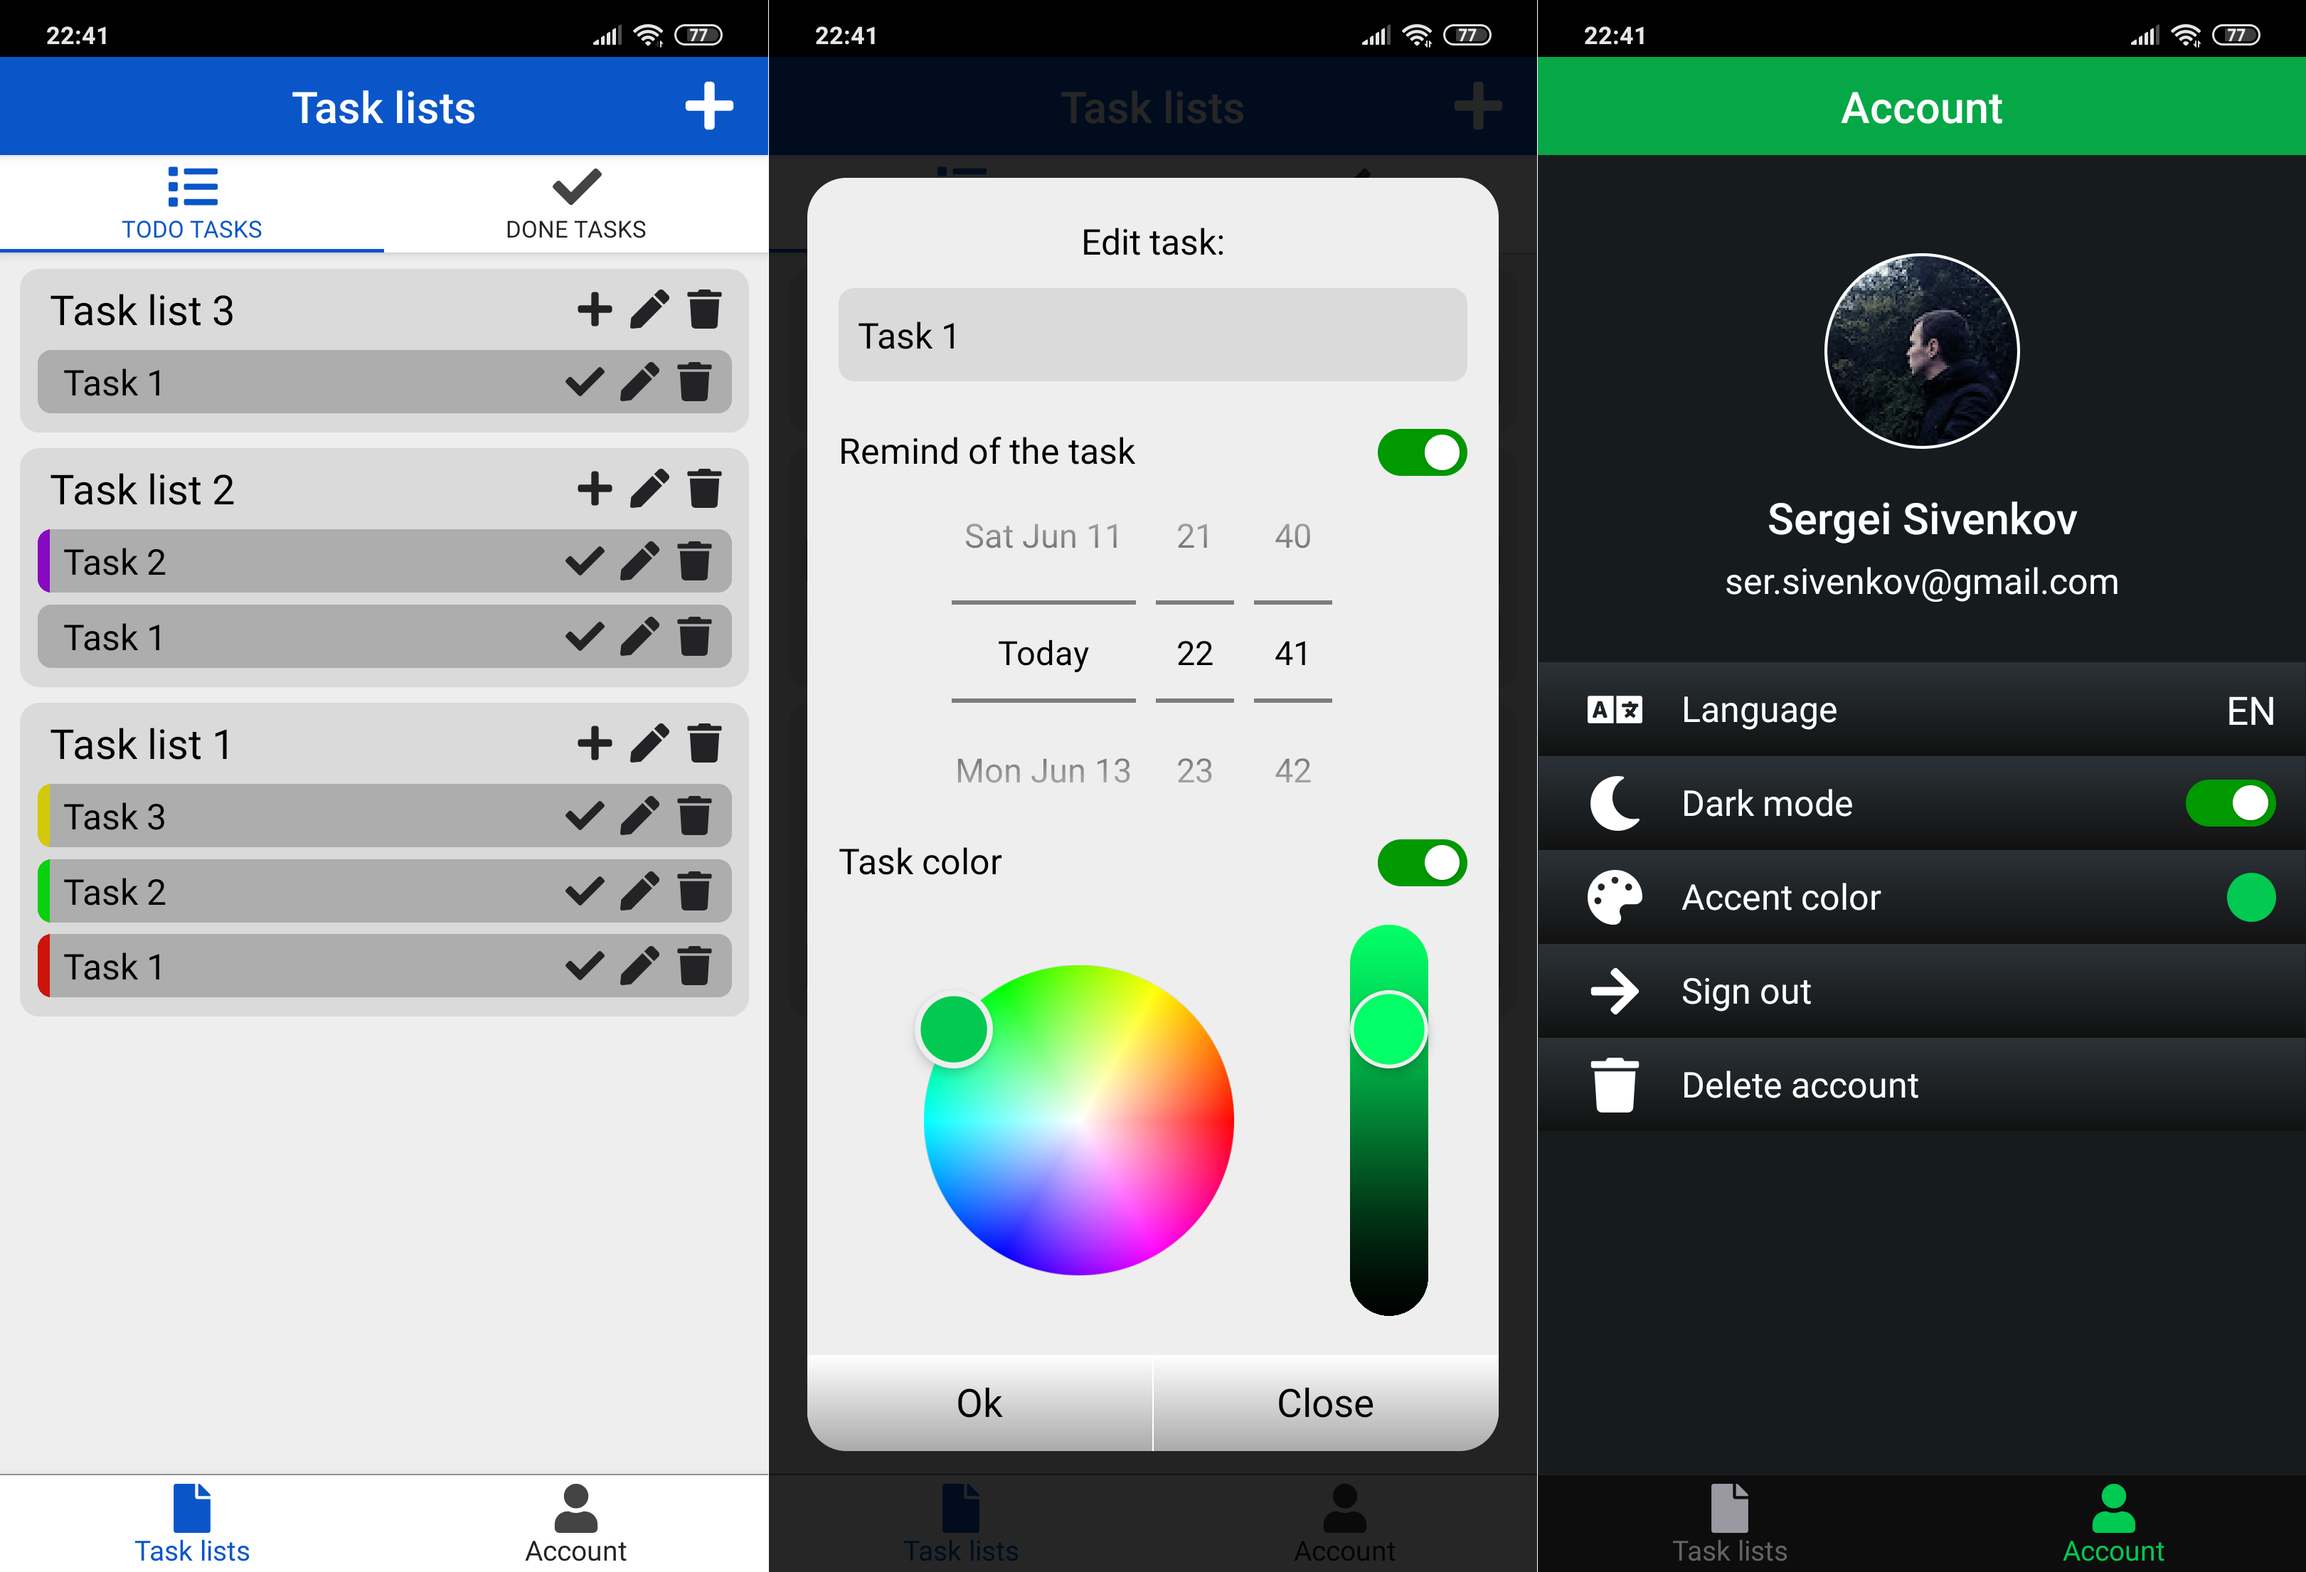
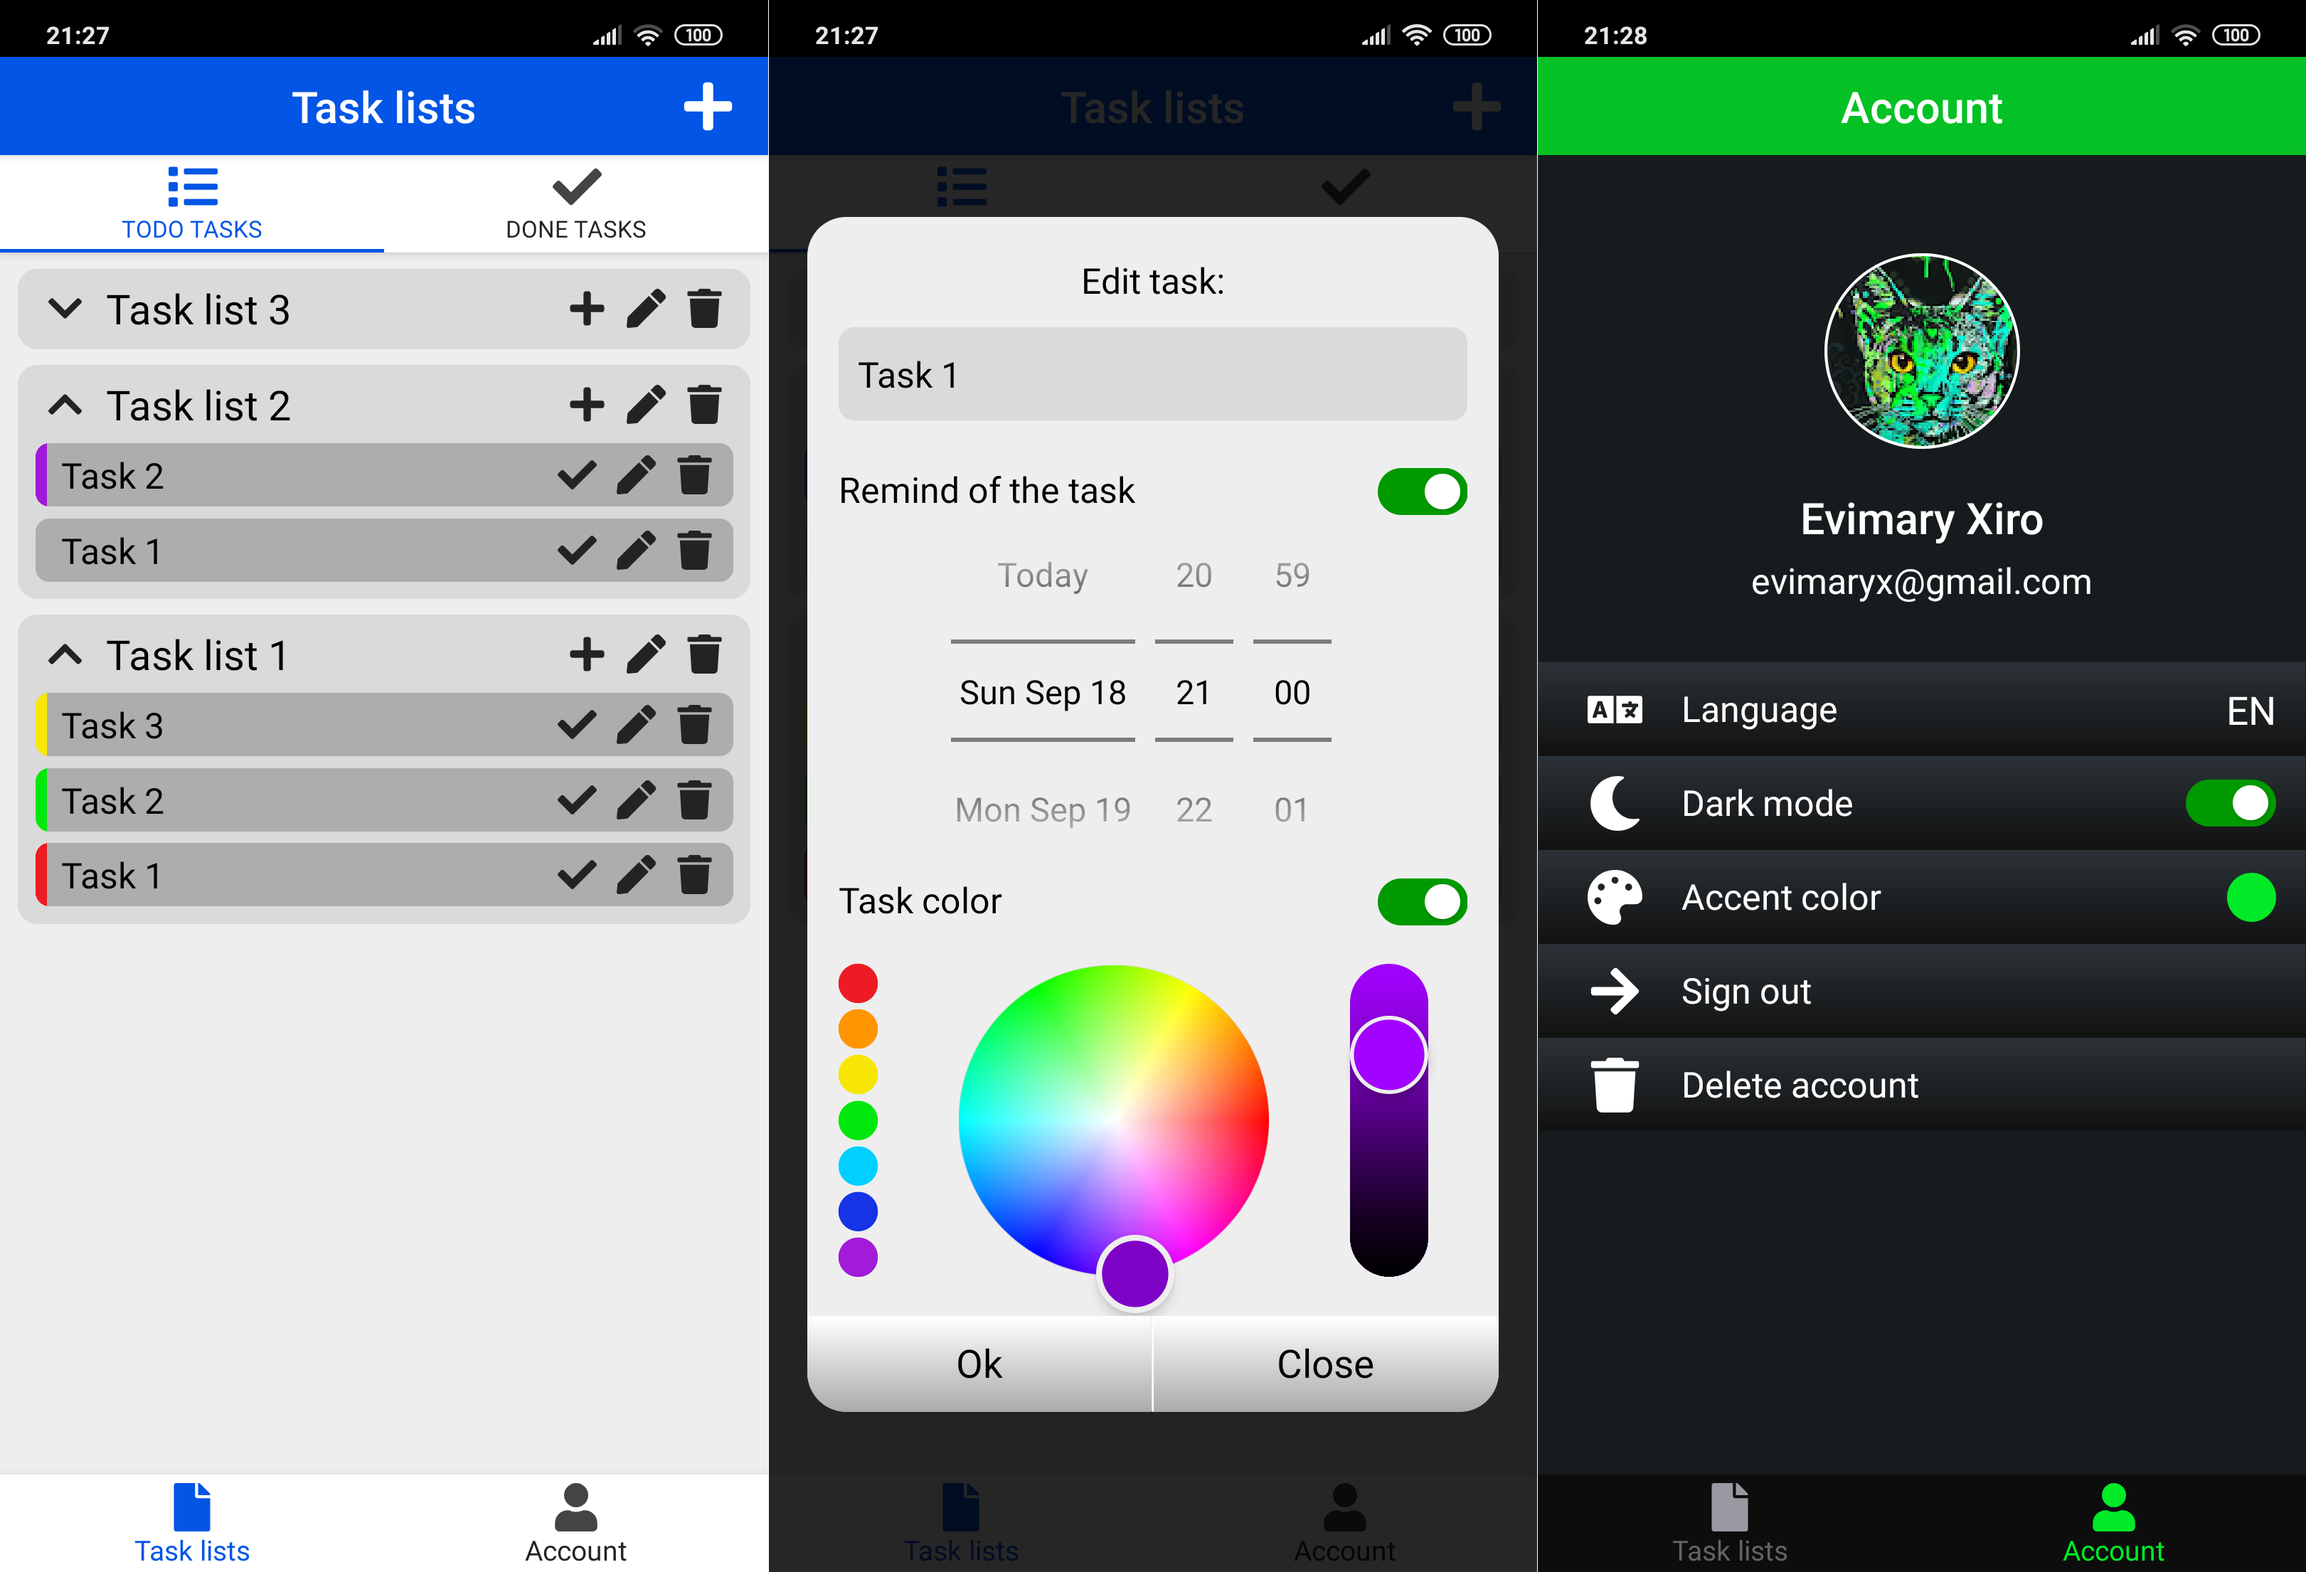
update readme, update preview

diff --git a/README.md b/README.md
@@ -3,10 +3,8 @@ Mobile task management application for Android and iOS.
 
 Technologies: JavaScript, TypeScript, React Native, Redux, Redux-Saga, ESLint, Prettier, Firebase, i18next, Font Awesome.
 
-Implemented: add task or task list, remove task or task list, rename task or task list, marking the completed task, mark task with any color, screens for todo tasks and for done tasks, receiving notifications at a certain date and time for tasks, sign in with Google, internet connection checking, app accent color picker button, delete account button, change app language buttons, user data storage and synchronizing with Firebase Realtime Database, dark theme mode, splash screen.
+Implemented: adding task or task list, removing task or task list, renaming task or task list, collapsing and uncollapsing task lists, marking the completed task, marking task with any color, screens for todo tasks and for done tasks, receiving tasks notification at a certain date and time, sign in with Google, user data storage and synchronizing with cloud database, internet connection checking, app accent color picker button, delete account button, change app language button, dark mode button, splash screen.
 
-**Before commit or push, please, run the script "husky install" once.**
-
-# [Download APK v1.1.0](https://drive.google.com/file/d/1ZrzLdUFrLMXNdfgVDb7QcQbRcUOMfj3I/view?usp=sharing "Link")
+**Before commit or push, please, run the script "husky_install" once.**
 
 ![ToDo List preview](./preview.png)
